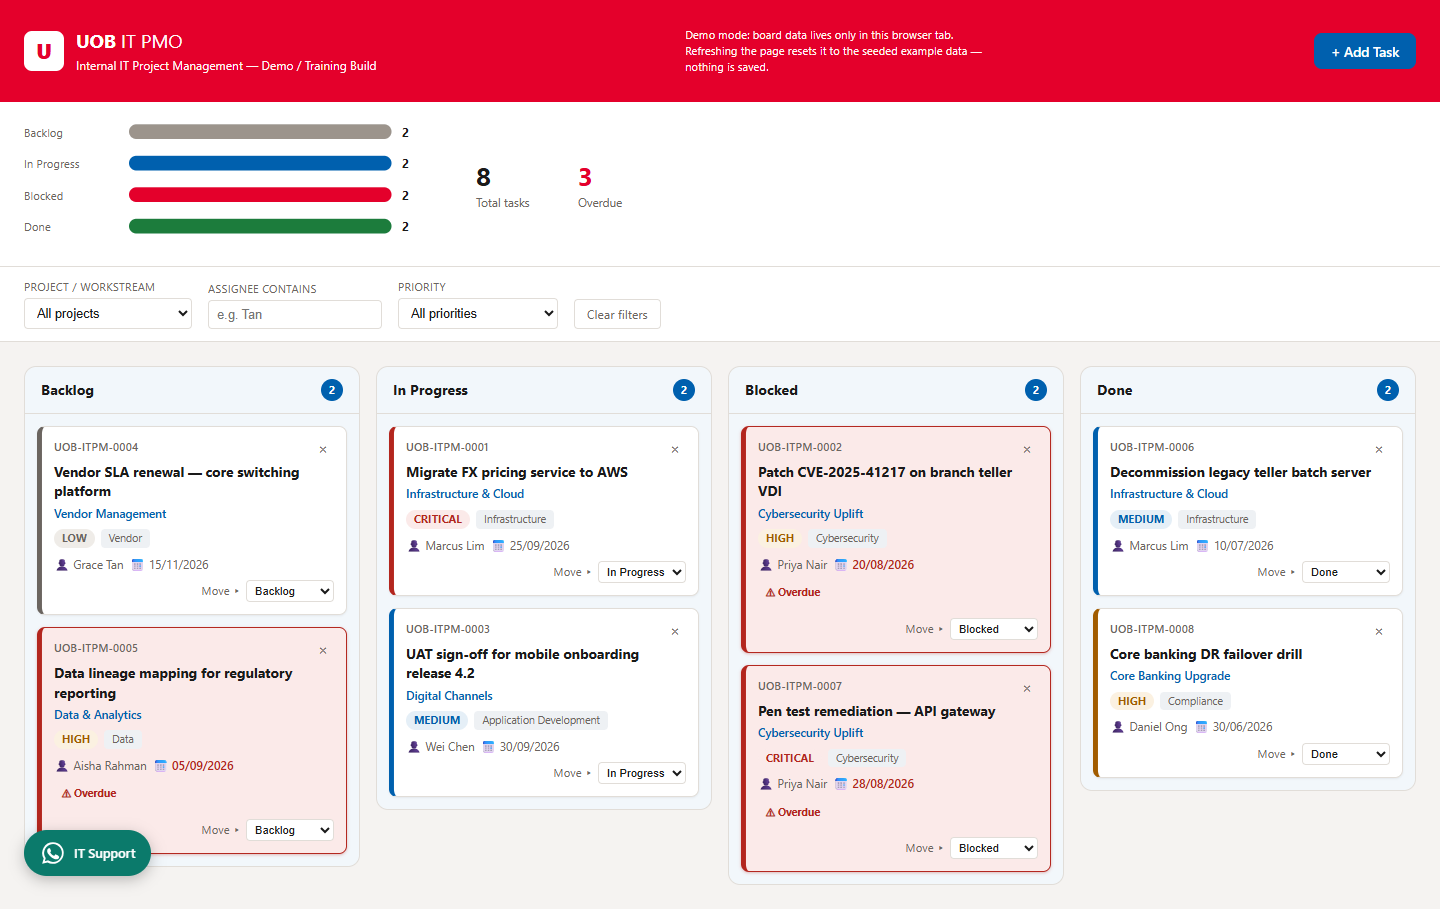
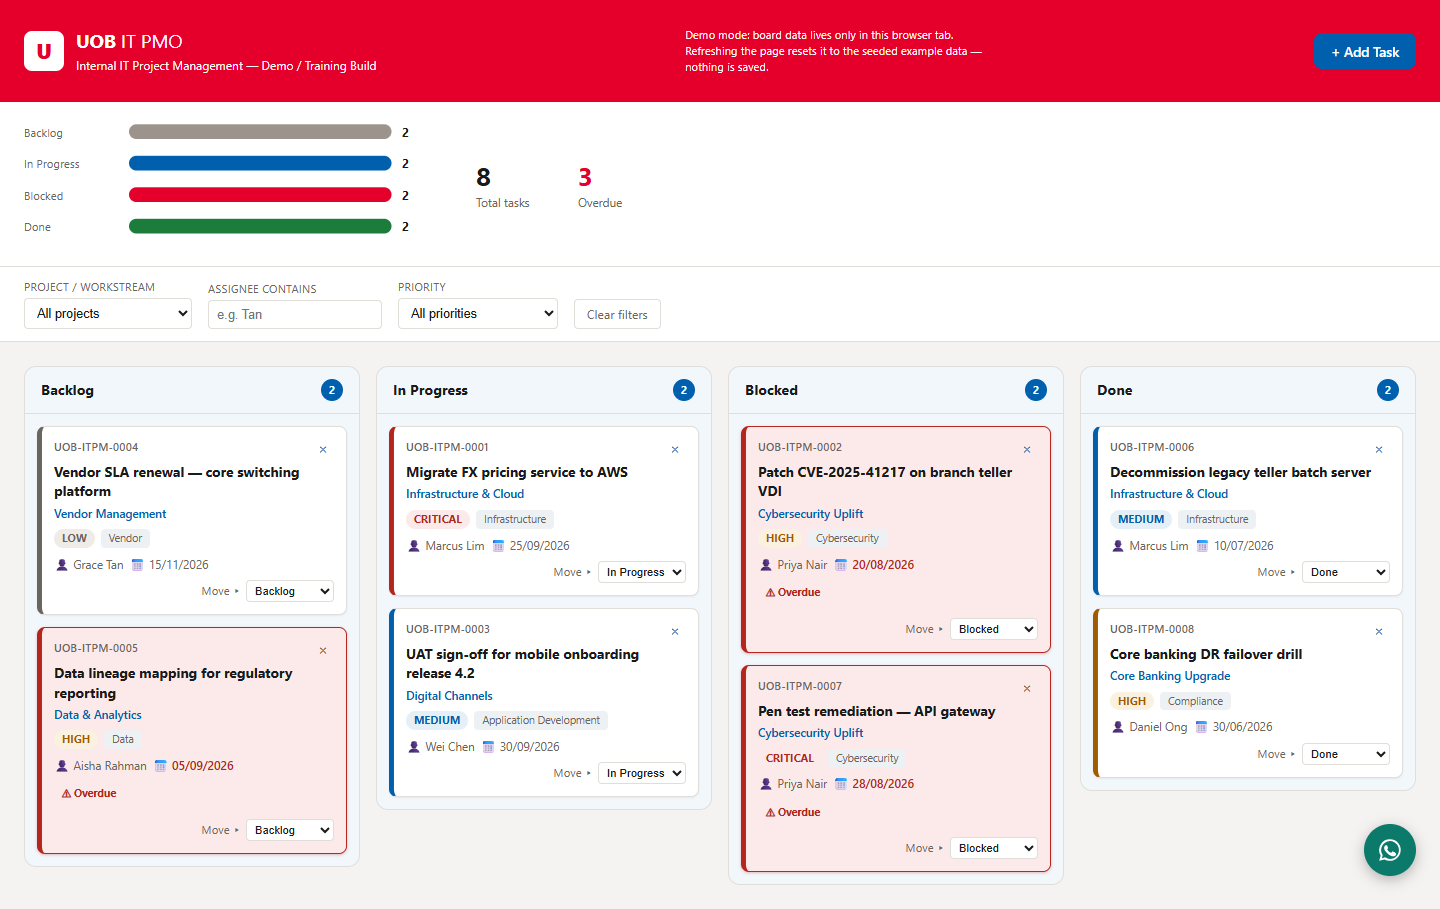
Move WhatsApp button to bottom-right and add quick-topic presets
Replace the pill-shaped link with a circular chat launcher that opens
a small panel of preset IT Support topics (password reset, VPN
access, outage report, software install), plus a general-chat
fallback, each deep-linking to WhatsApp with its own pre-filled
message. Also shift the toast region up so it no longer collides with
the button in the same corner.

Changed region(s): [[0.0, 0.8933, 0.125, 0.9857], [0.9375, 0.8933, 1.0, 0.9857]]

diff --git a/index.html b/index.html
@@ -643,7 +643,7 @@
      ============================================================ */
   .toast-region {
     position: fixed;
-    bottom: var(--space-5);
+    bottom: calc(var(--space-5) + 68px);
     right: var(--space-5);
     display: flex;
     flex-direction: column;
@@ -665,39 +665,95 @@
   .toast-error { background: var(--danger); }
 
   /* ============================================================
-     WHATSAPP IT SUPPORT — floating click-to-chat link
+     WHATSAPP IT SUPPORT — floating chat launcher with quick topics
      ============================================================ */
-  .whatsapp-fab {
+  .whatsapp-widget {
     position: fixed;
     bottom: var(--space-5);
-    left: var(--space-5);
-    display: inline-flex;
-    align-items: center;
-    gap: var(--space-2);
+    right: var(--space-5);
+    z-index: 200;
+    display: flex;
+    flex-direction: column;
+    align-items: flex-end;
+  }
+
+  .whatsapp-fab {
+    flex: 0 0 auto;
+    width: 52px;
+    height: 52px;
+    border: none;
+    border-radius: 50%;
     background: #0b7a6b;
     color: #fff;
-    text-decoration: none;
-    padding: 10px var(--space-4);
-    border-radius: 999px;
-    box-shadow: 0 4px 14px rgba(0,0,0,0.25);
-    font-size: 0.85rem;
-    font-weight: 600;
-    z-index: 200;
+    display: flex;
+    align-items: center;
+    justify-content: center;
+    box-shadow: 0 4px 14px rgba(0,0,0,0.28);
     transition: transform 0.15s ease, box-shadow 0.15s ease;
   }
 
   .whatsapp-fab:hover {
     transform: translateY(-2px);
-    box-shadow: 0 6px 18px rgba(0,0,0,0.3);
+    box-shadow: 0 6px 18px rgba(0,0,0,0.32);
   }
 
-  .whatsapp-fab svg {
-    flex: 0 0 auto;
+  .whatsapp-panel {
+    margin-bottom: var(--space-3);
+    width: 280px;
+    max-width: calc(100vw - 2 * var(--space-5));
+    background: var(--surface);
+    border-radius: var(--radius-lg);
+    box-shadow: 0 10px 32px rgba(0,0,0,0.28);
+    overflow: hidden;
   }
 
-  @media (max-width: 560px) {
-    .whatsapp-fab-label { display: none; }
-    .whatsapp-fab { padding: 12px; }
+  .whatsapp-panel.hidden { display: none; }
+
+  .whatsapp-panel-header {
+    background: #0b7a6b;
+    color: #fff;
+    padding: var(--space-3) var(--space-4);
+    display: flex;
+    flex-direction: column;
+    gap: 2px;
+  }
+
+  .whatsapp-panel-title {
+    font-weight: 700;
+    font-size: 0.95rem;
+  }
+
+  .whatsapp-panel-sub {
+    font-size: 0.75rem;
+    color: #e3f3f0;
+  }
+
+  .whatsapp-panel-questions {
+    display: flex;
+    flex-direction: column;
+    padding: var(--space-2);
+  }
+
+  .whatsapp-question {
+    display: block;
+    padding: 9px 10px;
+    border-radius: var(--radius-sm);
+    color: var(--text);
+    text-decoration: none;
+    font-size: 0.85rem;
+  }
+
+  .whatsapp-question:hover,
+  .whatsapp-question:focus-visible {
+    background: var(--uob-blue-50);
+  }
+
+  .whatsapp-question-general {
+    margin-top: var(--space-1);
+    padding-top: 17px;
+    border-top: 1px solid var(--border);
+    font-weight: 600;
+    color: #0b7a6b;
   }
 </style>
 </head>
@@ -892,14 +948,22 @@
   <div class="toast-region" id="toastRegion" role="status" aria-live="polite"></div>
 
   <!-- ============================================================
-       WHATSAPP IT SUPPORT — floating click-to-chat link
+       WHATSAPP IT SUPPORT — floating chat launcher with quick topics
        ============================================================ -->
-  <a class="whatsapp-fab" id="whatsappFab" href="#" target="_blank" rel="noopener" aria-label="Chat with IT Support on WhatsApp">
-    <svg viewBox="0 0 24 24" width="26" height="26" aria-hidden="true" focusable="false">
-      <path fill="currentColor" d="M12 2a10 10 0 0 0-8.6 15.1L2 22l5-1.3A10 10 0 1 0 12 2Zm0 18.2a8.1 8.1 0 0 1-4.2-1.2l-.3-.2-3 .8.8-2.9-.2-.3A8.2 8.2 0 1 1 12 20.2Zm4.5-6.1c-.2-.1-1.5-.7-1.7-.8-.2-.1-.4-.1-.6.1-.2.2-.7.8-.8 1-.2.2-.3.2-.5.1a6.6 6.6 0 0 1-2-1.2 7.4 7.4 0 0 1-1.4-1.7c-.1-.2 0-.4.1-.5l.4-.4.2-.4v-.4c-.1-.1-.6-1.4-.8-1.9-.2-.5-.4-.4-.6-.4h-.5a1 1 0 0 0-.7.3 3 3 0 0 0-1 2.2c0 1.3.9 2.6 1.1 2.8.1.2 2 3 4.7 4.2.7.3 1.2.5 1.6.6.7.2 1.3.2 1.8.1.5-.1 1.5-.6 1.7-1.2.2-.6.2-1.1.2-1.2-.1-.1-.3-.2-.5-.3Z"/>
-    </svg>
-    <span class="whatsapp-fab-label">IT Support</span>
-  </a>
+  <div class="whatsapp-widget" id="whatsappWidget">
+    <div class="whatsapp-panel hidden" id="whatsappPanel" role="menu" aria-label="IT Support quick topics">
+      <div class="whatsapp-panel-header">
+        <span class="whatsapp-panel-title">IT Support</span>
+        <span class="whatsapp-panel-sub">Chat with us on WhatsApp — pick a topic to start</span>
+      </div>
+      <div class="whatsapp-panel-questions" id="whatsappQuestions"></div>
+    </div>
+    <button type="button" class="whatsapp-fab" id="whatsappToggle" aria-haspopup="true" aria-expanded="false" aria-controls="whatsappPanel" aria-label="Open IT Support WhatsApp chat topics">
+      <svg viewBox="0 0 24 24" width="26" height="26" aria-hidden="true" focusable="false">
+        <path fill="currentColor" d="M12 2a10 10 0 0 0-8.6 15.1L2 22l5-1.3A10 10 0 1 0 12 2Zm0 18.2a8.1 8.1 0 0 1-4.2-1.2l-.3-.2-3 .8.8-2.9-.2-.3A8.2 8.2 0 1 1 12 20.2Zm4.5-6.1c-.2-.1-1.5-.7-1.7-.8-.2-.1-.4-.1-.6.1-.2.2-.7.8-.8 1-.2.2-.3.2-.5.1a6.6 6.6 0 0 1-2-1.2 7.4 7.4 0 0 1-1.4-1.7c-.1-.2 0-.4.1-.5l.4-.4.2-.4v-.4c-.1-.1-.6-1.4-.8-1.9-.2-.5-.4-.4-.6-.4h-.5a1 1 0 0 0-.7.3 3 3 0 0 0-1 2.2c0 1.3.9 2.6 1.1 2.8.1.2 2 3 4.7 4.2.7.3 1.2.5 1.6.6.7.2 1.3.2 1.8.1.5-.1 1.5-.6 1.7-1.2.2-.6.2-1.1.2-1.2-.1-.1-.3-.2-.5-.3Z"/>
+      </svg>
+    </button>
+  </div>
 
 <script>
 (function () {
@@ -925,6 +989,15 @@
      here in a shared/committed copy of this file. */
   const WHATSAPP_NUMBER = "00000000000";
   const WHATSAPP_MESSAGE = "Hi UOB IT PMO team, I need help with: ";
+
+  // Quick-topic presets shown in the IT Support panel — each opens
+  // WhatsApp with its own pre-filled message instead of the generic one.
+  const WHATSAPP_QUESTIONS = [
+    { label: "Reset my password", message: "Hi IT Support, I need help resetting my password." },
+    { label: "Request VPN / remote access", message: "Hi IT Support, I need VPN or remote access set up." },
+    { label: "Report a system outage", message: "Hi IT Support, I'd like to report a system outage." },
+    { label: "Software installation request", message: "Hi IT Support, I have a software installation request." }
+  ];
 
   const STATUSES = ["Backlog", "In Progress", "Blocked", "Done"];
 
@@ -1441,16 +1514,56 @@
   /* ============================================================
      INIT
      ============================================================ */
-  function initWhatsAppFab() {
-    const fab = document.getElementById("whatsappFab");
-    if (!fab) return;
-    fab.href = `https://wa.me/${WHATSAPP_NUMBER}?text=${encodeURIComponent(WHATSAPP_MESSAGE)}`;
+  function buildWhatsAppLink(message) {
+    return `https://wa.me/${WHATSAPP_NUMBER}?text=${encodeURIComponent(message)}`;
+  }
+
+  function initWhatsAppWidget() {
+    const widget = document.getElementById("whatsappWidget");
+    const toggle = document.getElementById("whatsappToggle");
+    const panel = document.getElementById("whatsappPanel");
+    const questionsEl = document.getElementById("whatsappQuestions");
+    if (!widget || !toggle || !panel || !questionsEl) return;
+
+    const questionLinks = WHATSAPP_QUESTIONS.map(q =>
+      `<a class="whatsapp-question" href="${buildWhatsAppLink(q.message)}" target="_blank" rel="noopener" role="menuitem">${escapeHtml(q.label)}</a>`
+    ).join("");
+
+    questionsEl.innerHTML = `
+      ${questionLinks}
+      <a class="whatsapp-question whatsapp-question-general" href="${buildWhatsAppLink(WHATSAPP_MESSAGE)}" target="_blank" rel="noopener" role="menuitem">Start a general chat</a>
+    `;
+
+    function openPanel() {
+      panel.classList.remove("hidden");
+      toggle.setAttribute("aria-expanded", "true");
+    }
+    function closePanel() {
+      panel.classList.add("hidden");
+      toggle.setAttribute("aria-expanded", "false");
+    }
+
+    toggle.addEventListener("click", () => {
+      const isOpen = !panel.classList.contains("hidden");
+      if (isOpen) closePanel(); else openPanel();
+    });
+
+    document.addEventListener("click", e => {
+      if (!widget.contains(e.target)) closePanel();
+    });
+
+    document.addEventListener("keydown", e => {
+      if (e.key === "Escape" && !panel.classList.contains("hidden")) {
+        closePanel();
+        toggle.focus();
+      }
+    });
   }
 
   function init() {
     seedTasks();
     initEvents();
-    initWhatsAppFab();
+    initWhatsAppWidget();
     renderBoard();
   }
 
